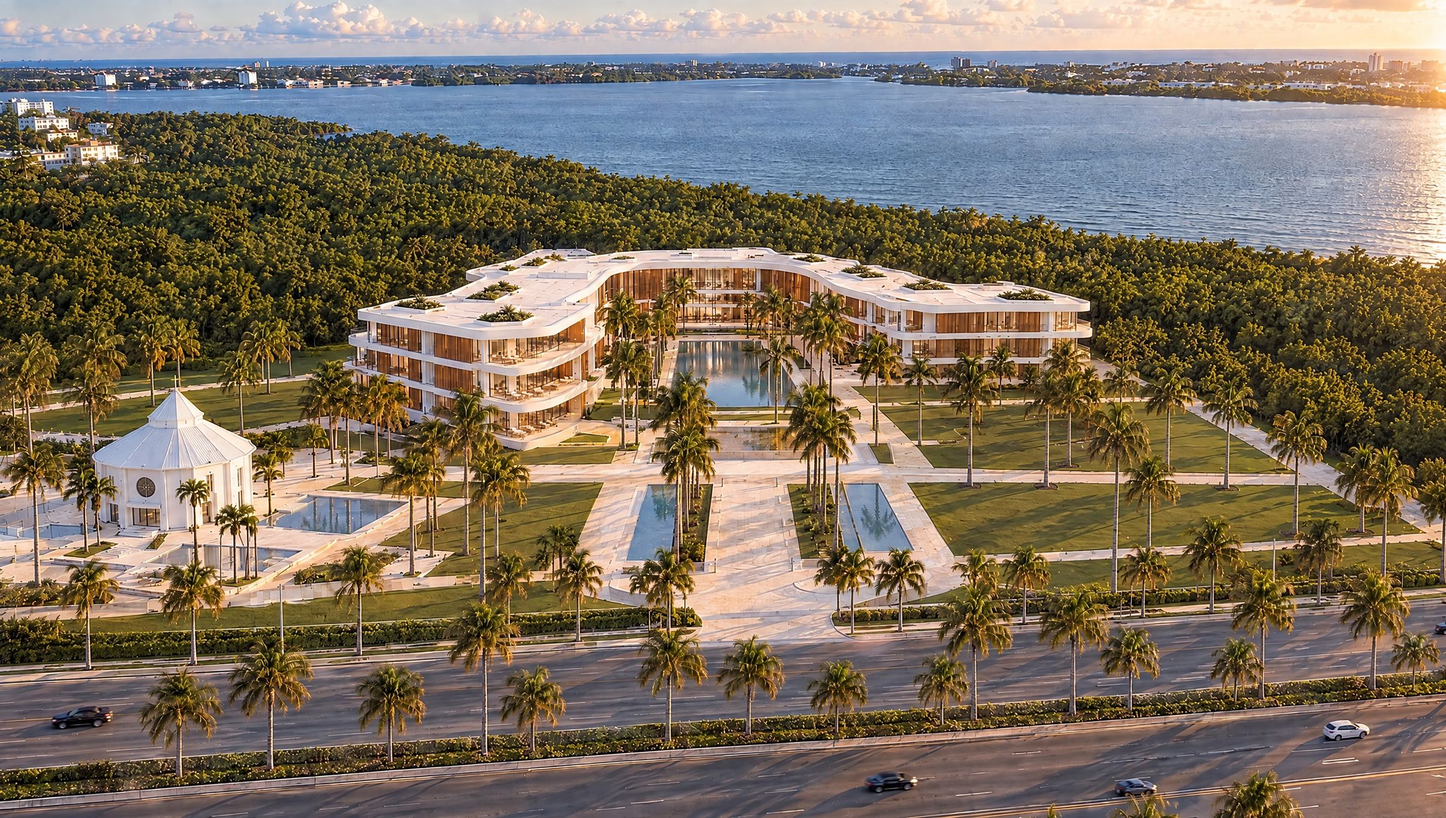
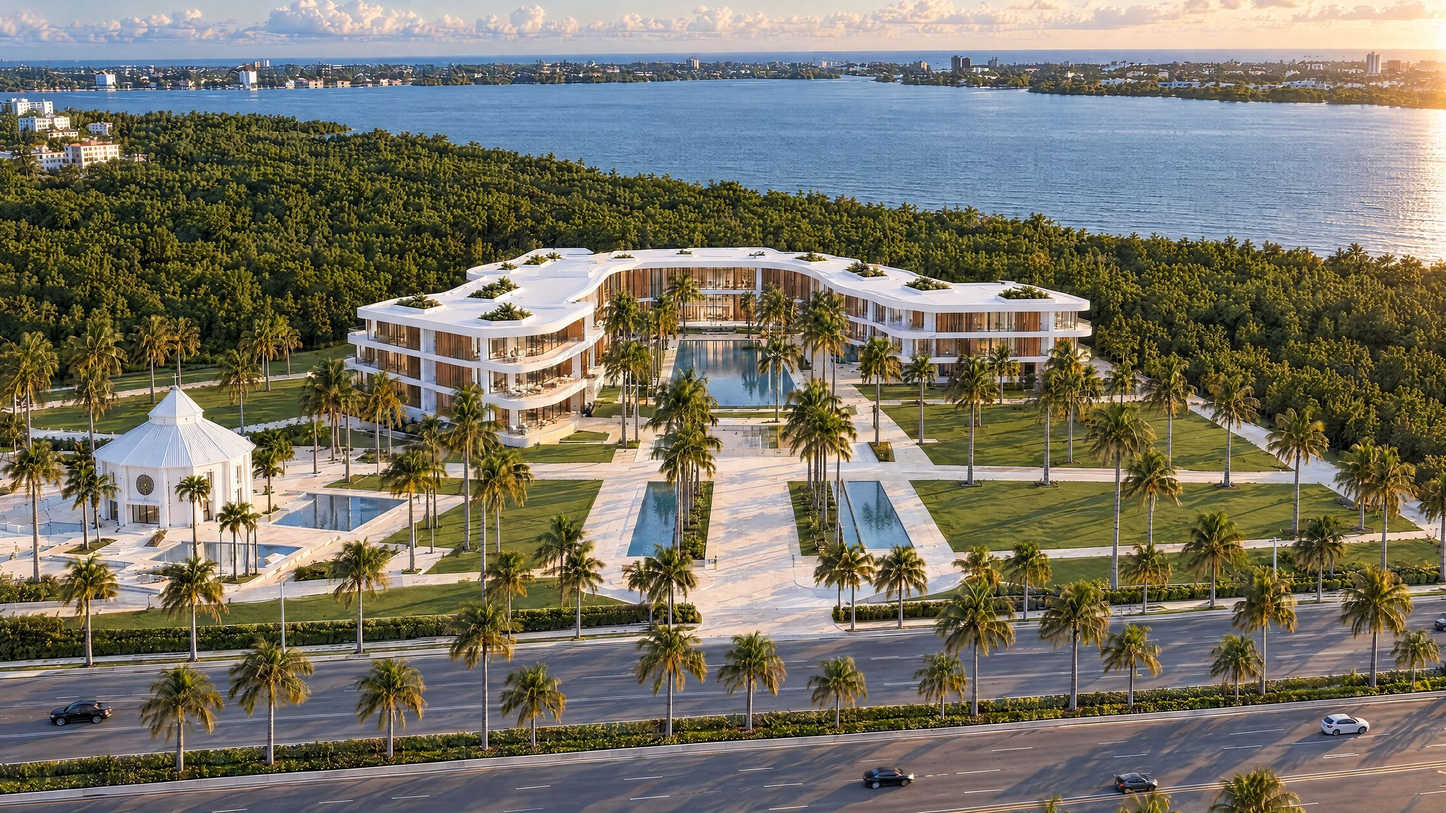
Sharper, more photographic 4K versions of the amenity photos
Claude-Session: https://claude.ai/code/session_01S7b28xHt44m2WStmS8adg2

diff --git a/es/index.html b/es/index.html
@@ -113,7 +113,7 @@
 
   <section class="split">
     <figure class="split__image reveal">
-      <img src="/assets/img/form.jpg?v=8" alt="Vista conceptual desde la Calle Marginal del conjunto residencial, con la iglesia y la Laguna Los Corozos detrás" loading="lazy">
+      <img src="/assets/img/form.jpg?v=9" alt="Vista conceptual desde la Calle Marginal del conjunto residencial, con la iglesia y la Laguna Los Corozos detrás" loading="lazy">
     </figure>
     <div class="split__text reveal">
       <p class="eyebrow" data-i18n="form.eyebrow">Forma</p>
@@ -165,15 +165,15 @@
     </header>
     <div class="wellness__grid">
       <figure class="wellness__item wellness__item--big reveal">
-        <img src="/assets/img/garden.jpg?v=5" alt="Jardín compartido conceptual con pérgola de teca donde los residentes se reúnen en una mesa larga" loading="lazy">
+        <img src="/assets/img/garden.jpg?v=6" alt="Jardín compartido conceptual con pérgola de teca donde los residentes se reúnen en una mesa larga" loading="lazy">
         <figcaption data-i18n="well.cap1">El jardín compartido</figcaption>
       </figure>
       <figure class="wellness__item reveal">
-        <img src="/assets/img/gym.jpg?v=5" alt="Estudio de bienestar conceptual lleno de luz y abierto al jardín" loading="lazy">
+        <img src="/assets/img/gym.jpg?v=6" alt="Estudio de bienestar conceptual lleno de luz y abierto al jardín" loading="lazy">
         <figcaption data-i18n="well.cap2">El estudio de bienestar</figcaption>
       </figure>
       <figure class="wellness__item reveal">
-        <img src="/assets/img/pavilion.jpg?v=5" alt="Pabellón de bienestar conceptual con terraza exterior para ejercicio suave" loading="lazy">
+        <img src="/assets/img/pavilion.jpg?v=6" alt="Pabellón de bienestar conceptual con terraza exterior para ejercicio suave" loading="lazy">
         <figcaption data-i18n="well.cap3">Movimiento al aire libre</figcaption>
       </figure>
     </div>
@@ -188,15 +188,15 @@
     </header>
     <div class="wellness__grid">
       <figure class="wellness__item wellness__item--big reveal">
-        <img src="/assets/img/pool.jpg?v=3" alt="Terraza de piscina conceptual enmarcada por las residencias, lejos de la playa" loading="lazy">
+        <img src="/assets/img/pool.jpg?v=4" alt="Terraza de piscina conceptual enmarcada por las residencias, lejos de la playa" loading="lazy">
         <figcaption data-i18n="leis.cap1">La terraza de la piscina</figcaption>
       </figure>
       <figure class="wellness__item reveal">
-        <img src="/assets/img/restaurant.jpg?v=3" alt="Restaurante conceptual en el jardín con residentes cenando al atardecer" loading="lazy">
+        <img src="/assets/img/restaurant.jpg?v=4" alt="Restaurante conceptual en el jardín con residentes cenando al atardecer" loading="lazy">
         <figcaption data-i18n="leis.cap2">El restaurante del jardín</figcaption>
       </figure>
       <figure class="wellness__item reveal">
-        <img src="/assets/img/courts.jpg?v=4" alt="Canchas conceptuales de pickleball y tenis junto a una fuente moderna con bancos" loading="lazy">
+        <img src="/assets/img/courts.jpg?v=5" alt="Canchas conceptuales de pickleball y tenis junto a una fuente moderna con bancos" loading="lazy">
         <figcaption data-i18n="leis.cap3">Pickleball y tenis</figcaption>
       </figure>
     </div>

diff --git a/index.html b/index.html
@@ -113,7 +113,7 @@
 
   <section class="split">
     <figure class="split__image reveal">
-      <img src="/assets/img/form.jpg?v=8" alt="Conceptual view from Calle Marginal of the residence campus, with the church and Laguna Los Corozos behind" loading="lazy">
+      <img src="/assets/img/form.jpg?v=9" alt="Conceptual view from Calle Marginal of the residence campus, with the church and Laguna Los Corozos behind" loading="lazy">
     </figure>
     <div class="split__text reveal">
       <p class="eyebrow" data-i18n="form.eyebrow">Form</p>
@@ -165,15 +165,15 @@
     </header>
     <div class="wellness__grid">
       <figure class="wellness__item wellness__item--big reveal">
-        <img src="/assets/img/garden.jpg?v=5" alt="Conceptual shared garden with a teak pergola where residents gather at a long table" loading="lazy">
+        <img src="/assets/img/garden.jpg?v=6" alt="Conceptual shared garden with a teak pergola where residents gather at a long table" loading="lazy">
         <figcaption data-i18n="well.cap1">The shared garden</figcaption>
       </figure>
       <figure class="wellness__item reveal">
-        <img src="/assets/img/gym.jpg?v=5" alt="Conceptual light-filled wellness studio opening onto the garden" loading="lazy">
+        <img src="/assets/img/gym.jpg?v=6" alt="Conceptual light-filled wellness studio opening onto the garden" loading="lazy">
         <figcaption data-i18n="well.cap2">The wellness studio</figcaption>
       </figure>
       <figure class="wellness__item reveal">
-        <img src="/assets/img/pavilion.jpg?v=5" alt="Conceptual wellness pavilion with an outdoor terrace for gentle exercise" loading="lazy">
+        <img src="/assets/img/pavilion.jpg?v=6" alt="Conceptual wellness pavilion with an outdoor terrace for gentle exercise" loading="lazy">
         <figcaption data-i18n="well.cap3">Movement in the open air</figcaption>
       </figure>
     </div>
@@ -188,15 +188,15 @@
     </header>
     <div class="wellness__grid">
       <figure class="wellness__item wellness__item--big reveal">
-        <img src="/assets/img/pool.jpg?v=3" alt="Conceptual pool terrace framed by the residences, away from the beach" loading="lazy">
+        <img src="/assets/img/pool.jpg?v=4" alt="Conceptual pool terrace framed by the residences, away from the beach" loading="lazy">
         <figcaption data-i18n="leis.cap1">The pool terrace</figcaption>
       </figure>
       <figure class="wellness__item reveal">
-        <img src="/assets/img/restaurant.jpg?v=3" alt="Conceptual garden restaurant with residents dining at golden hour" loading="lazy">
+        <img src="/assets/img/restaurant.jpg?v=4" alt="Conceptual garden restaurant with residents dining at golden hour" loading="lazy">
         <figcaption data-i18n="leis.cap2">The garden restaurant</figcaption>
       </figure>
       <figure class="wellness__item reveal">
-        <img src="/assets/img/courts.jpg?v=4" alt="Conceptual pickleball and tennis courts beside a modern fountain with benches" loading="lazy">
+        <img src="/assets/img/courts.jpg?v=5" alt="Conceptual pickleball and tennis courts beside a modern fountain with benches" loading="lazy">
         <figcaption data-i18n="leis.cap3">Pickleball and tennis</figcaption>
       </figure>
     </div>
